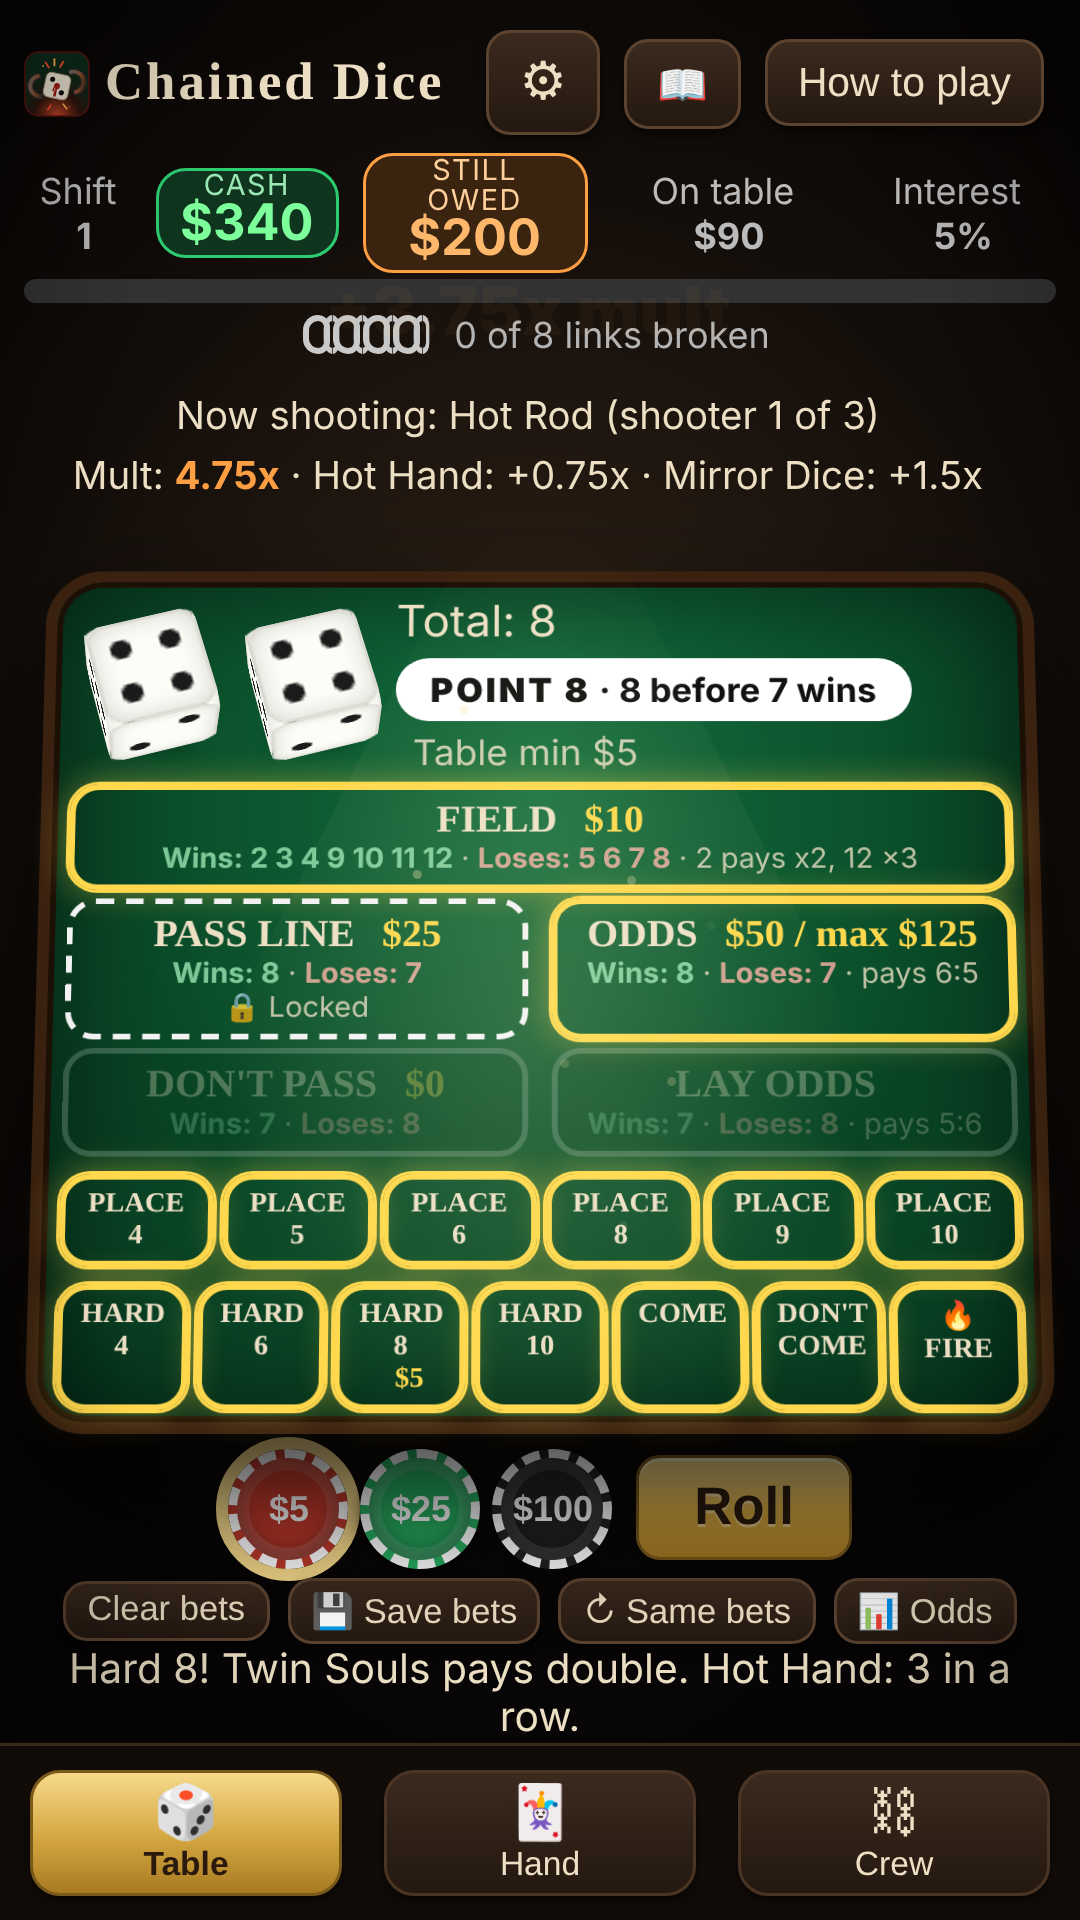
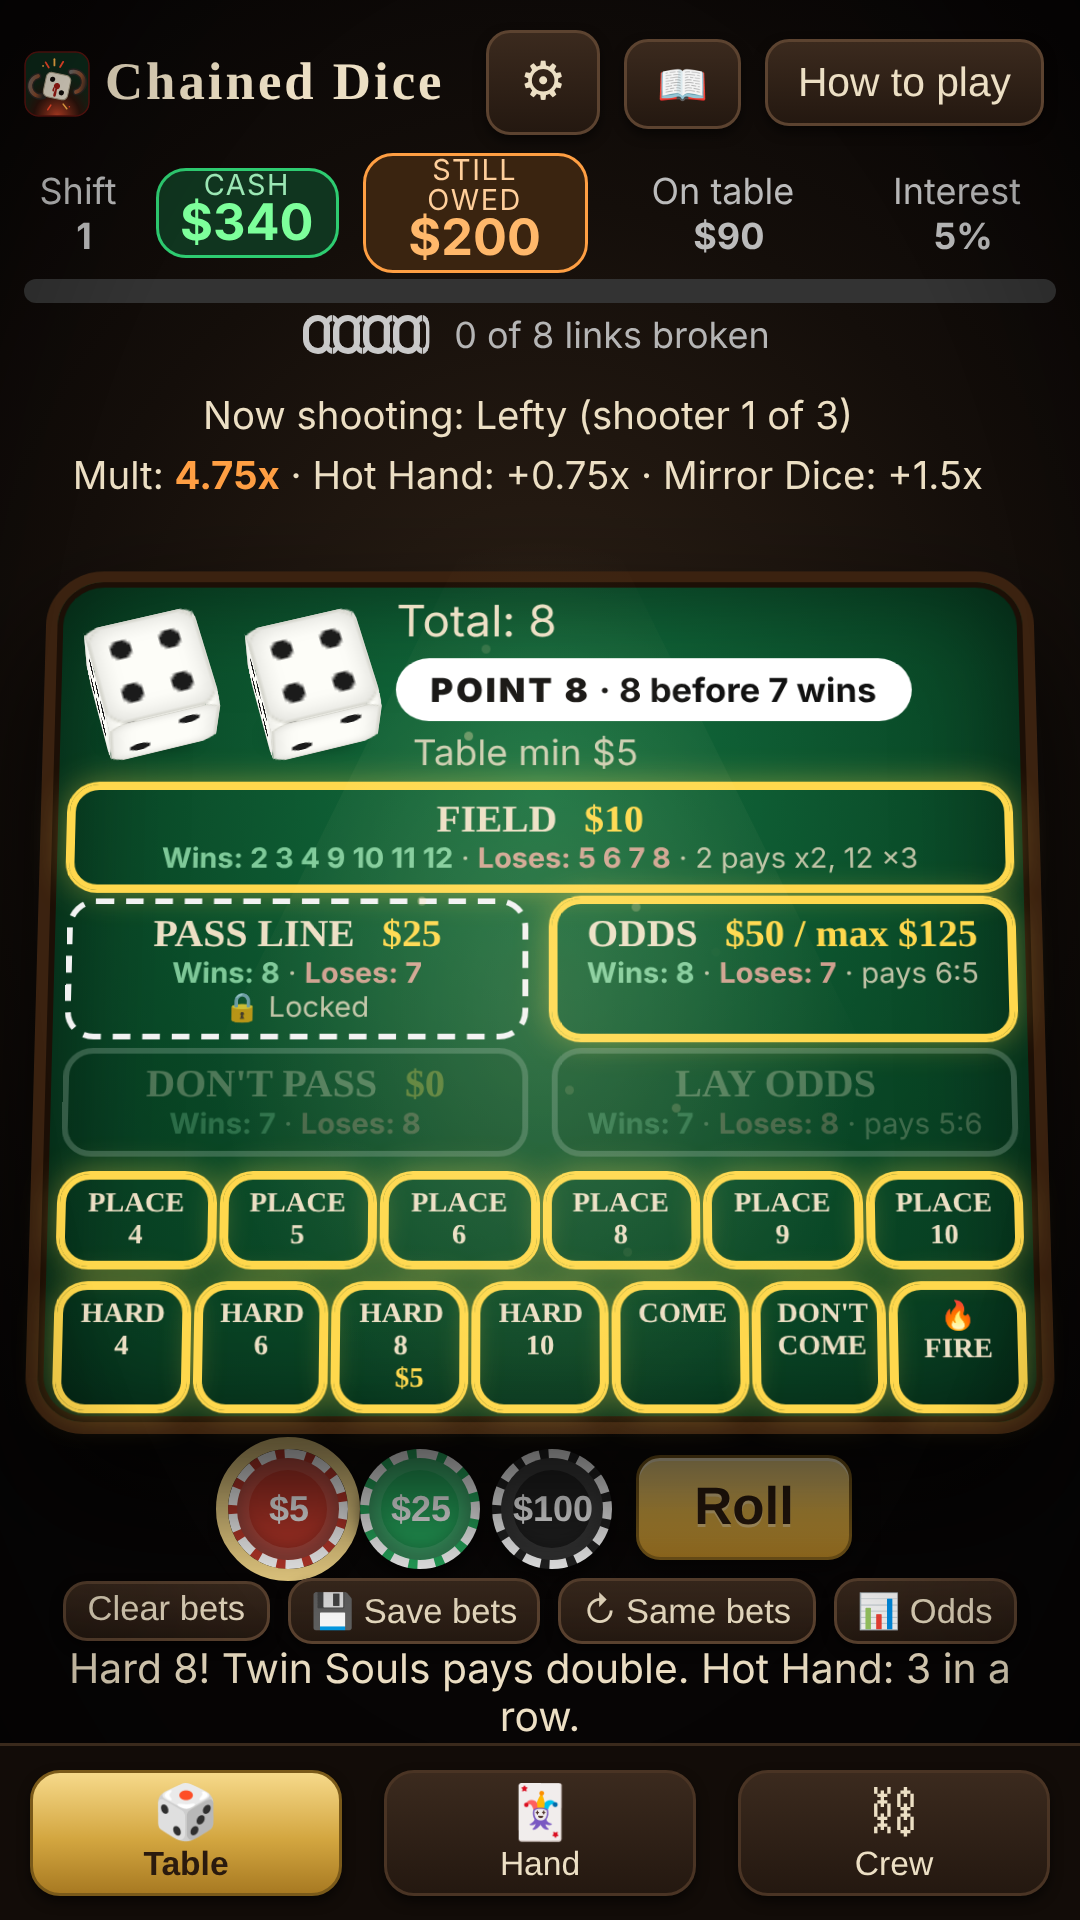
Tablet screenshots (7-inch 1200x1920, 10-inch 1600x2560) from the store art script
Claude-Session: https://claude.ai/code/session_01HBGJ77ScWJABrg8a8a9mqT

Changed region(s): [[0.1833, 0.1875, 0.7944, 0.25]]

diff --git a/tools/make-store-art.js b/tools/make-store-art.js
@@ -28,9 +28,16 @@ fs.mkdirSync(out, { recursive: true });
     </div></body></html>`);
   await banner.screenshot({ path: path.join(out, "feature-graphic.png") });
 
-  // ---------- Phone screenshots: 360 x 640 at 3x = 1080 x 1920 ----------
+  // ---------- Screenshots: phone 1080 x 1920, 7-inch tablet 1200 x 1920, 10-inch tablet 1600 x 2560 ----------
+  // (The 10-inch tablet is wide enough for the game's wide layout: your hand sits beside the table.)
+  const DEVICES = [
+    { prefix: "screenshot-", width: 360, height: 640, scale: 3 },
+    { prefix: "tablet7-", width: 600, height: 960, scale: 2 },
+    { prefix: "tablet10-", width: 800, height: 1280, scale: 2 },
+  ];
+  let device = DEVICES[0];
   const shot = async (name, query, setup) => {
-    const ctx = await browser.newContext({ viewport: { width: 360, height: 640 }, deviceScaleFactor: 3, isMobile: true, hasTouch: true });
+    const ctx = await browser.newContext({ viewport: { width: device.width, height: device.height }, deviceScaleFactor: device.scale, isMobile: true, hasTouch: true });
     const page = await ctx.newPage();
     await page.addInitScript(() => { for (const k of ["intro", "shop", "comps", "phone", "guided", "bets"]) localStorage.setItem("chainedDice.seen." + k, "yes"); });
     await page.goto(game + "?fast&unlockAll&app" + (query || ""));
@@ -39,10 +46,11 @@ fs.mkdirSync(out, { recursive: true });
     await page.waitForTimeout(700);
     await page.evaluate(() => { const t = document.getElementById("tutorial-skip"); if (t && t.offsetParent) t.click(); });
     await page.waitForTimeout(300);
-    await page.screenshot({ path: path.join(out, "screenshot-" + name + ".png") });
+    await page.screenshot({ path: path.join(out, device.prefix + name + ".png") });
     await ctx.close();
   };
 
+  for (device of DEVICES) {
   // 1. The table mid-shooter: a point is on, bets down, a warm mult.
   await shot("1-table", "&cards=hotHand,mirrorDice,twinSouls,doubleUp", () => {
     document.getElementById("leave-break").click();
@@ -72,6 +80,7 @@ fs.mkdirSync(out, { recursive: true });
     state.point = 6; state.bets.pass = state.minBet; state.bets.odds = state.minBet * 5; state.turnPointsMade = 3; state.hotStreak = 4; renderAll();
     showMessage("Point hit! +" + money(state.debt * 0.37) + ". The house is still counting.", false);
   });
+  }
 
   await browser.close();
   console.log("Store art made in store/.");

diff --git a/CLAUDE.md b/CLAUDE.md
@@ -78,7 +78,7 @@ tools/simulate.js  balance simulator (Node.js, not part of the game): node tools
 tools/copy-web.js  Android: copies the game into www/ for the app (npm run sync)
 tools/make-icons.js  Android: app icons and splash screens from img/logo.svg (needs Playwright)
 tools/make-store-art.js  Google Play pictures into store/ (feature graphic, screenshots; needs Playwright)
-store/             Google Play pictures (icon-512.png, feature-graphic.png, screenshot-*.png), LISTING.md (store text draft), INVITE.md (closed-test invites and tracker)
+store/             Google Play pictures (icon-512.png, feature-graphic.png, screenshot-*.png phone, tablet7-*/tablet10-*.png tablets), LISTING.md (store text draft), INVITE.md (closed-test invites and tracker)
 package.json, capacitor.config.json  Android app setup (Capacitor; owner approved build tools for the app only)
 android/           the Android Studio project (generated by Capacitor; portrait, version in app/build.gradle)
 ```
